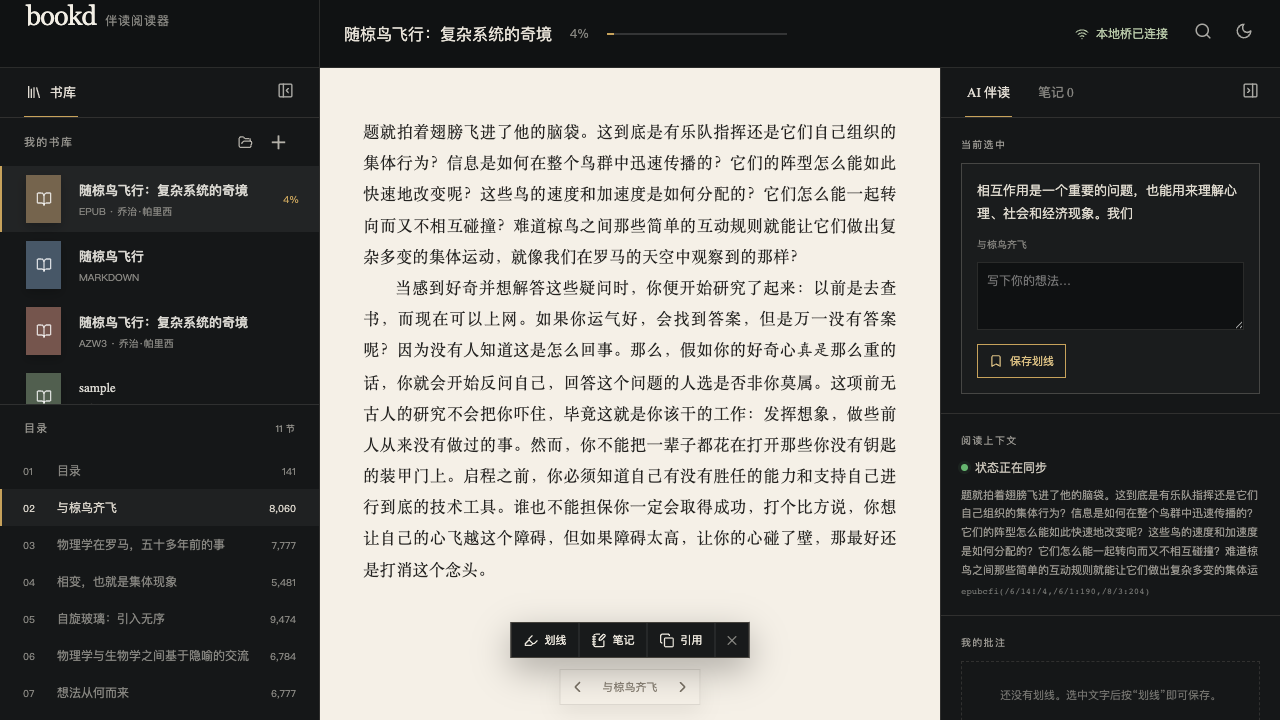
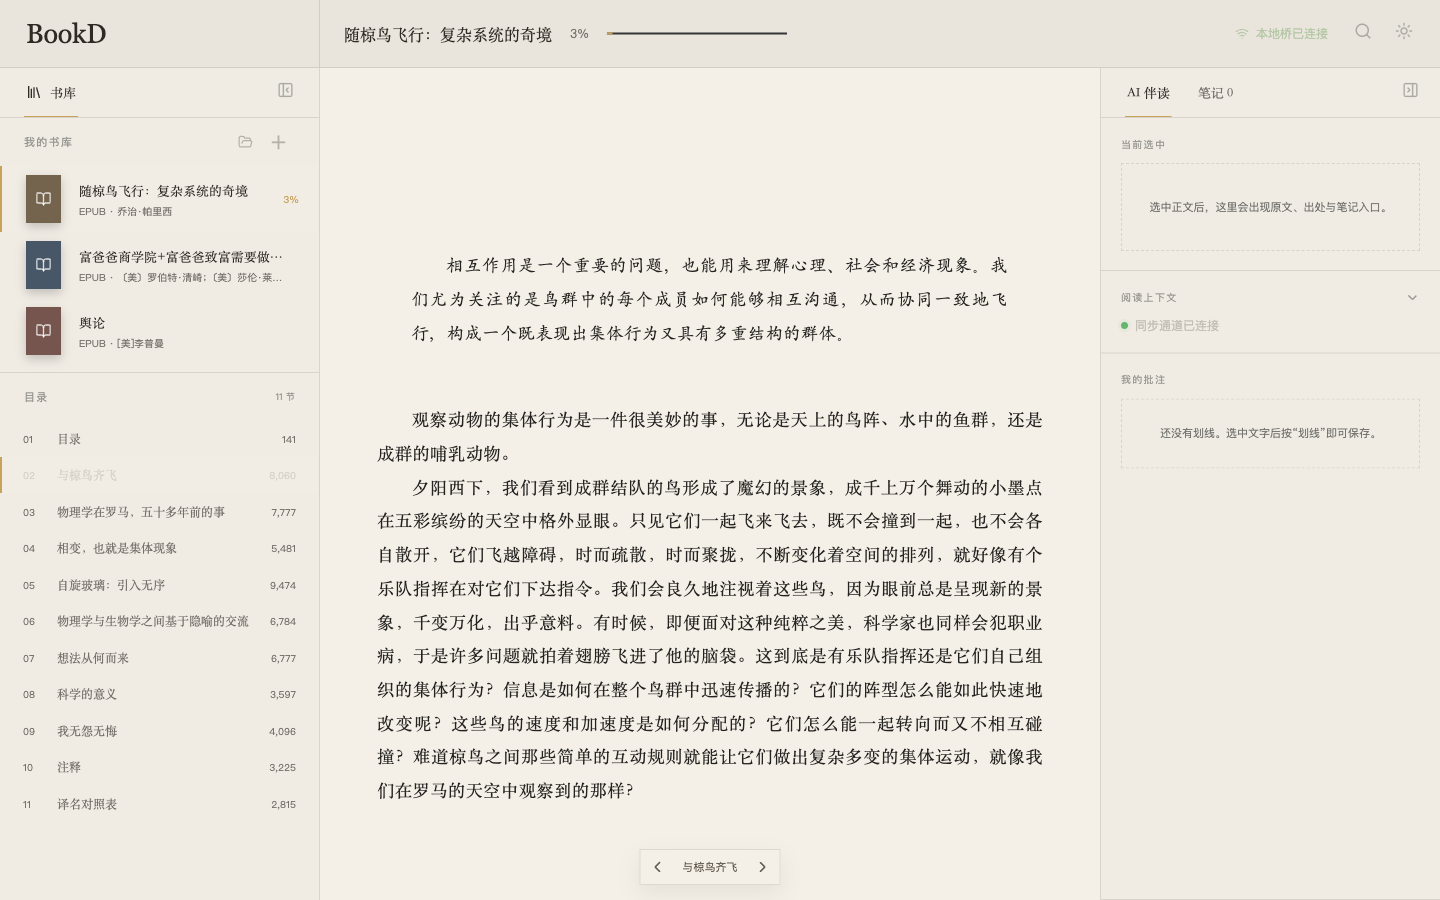
docs: refresh reader snapshot and record ux3

diff --git a/PROGRESS.md b/PROGRESS.md
@@ -107,3 +107,13 @@
 - MCP 回归使用新起的 `dist/mcp.js` stdio 子进程连接 4123：8 个工具可列出，`get_reading_state` 返回当前书、章节、CFI 与非空 `visibleTextHead`。
 - 已知既有风险：从另一本书切回《随椋鸟飞行》且没有该书可恢复位置时，foliate-js 1.0.1 的 text-start 初始化可能在 `Range.setEnd` 抛错并显示提示，但 renderer、字号和滚轮仍可用；本轮未扩大范围修改上游初始化路径。
 - 自动化：`npm run typecheck`、`npm test`（32 项）与 `npm run build` 全部通过；4123 已重启为本轮构建产物。
+
+## 阅读器 UX 第三轮与 MCP 按需启动（2026-08-18）
+
+- 左右边缘信号统一提升到 `app-shell`：侧栏收起后把手默认完全透明，留白探测区与 foliate iframe 正文转发都能同时点亮该侧把手和翻页钮；把手自身 hover 与 `focus-visible` 继续兜底，移入时不闪烁。
+- 把手固定到顶栏下方 `top: 120px`，并用 12px 伪元素扩展热区；翻页钮继续垂直居中且保留 72px 热区。无书时把手常驻可见，`hover: none` 设备上把手与可用翻页钮均以 0.5 透明度常显，≤820px 移动抽屉逻辑不变。
+- MCP 薄客户端只在回环地址发生网络层连接失败时，等待一次 `cli.js start --port …` 后重放请求；HTTP 错误与远程地址不会触发。并发失败共享模块级启动 Promise，MCP 仍不直接拉起 `serve`，失败信息保留底层错误并给出前台手动命令。
+- 单测新增远程回环门槛、HTTP 400/503 与 6 路并发防抖覆盖；随机隔离端口真实验收首次 `list_books` 632ms 返回，MCP 退出后服务继续存活，第二次会话复用同一 PID。生产 `dist/mcp.js` 的 8 个工具也已逐一调用通过，临时批注按返回 ID 清理。
+- 真实 Playwright Chromium 覆盖 1440×900、1000×720、580×720、触摸媒体、无书、Markdown 首末章、留白与 iframe 两条边缘路径、滚轮/方向键/扩展热区，以及明暗主题 × 四色纸面；`visibleTextHead` 在翻页回归中保持非空，控制台没有应用错误。
+- `docs/design/bookd-reader-implementation.png` 已更新为亮色米白纸面、打开《随椋鸟飞行》正文且双侧栏展开的 1440×900 实况，README 顶图同步指向该资产；历史概念图保留。
+- 自动化：`npm run typecheck`、`npm test`（36 项）与 `npm run build` 全部通过。

diff --git a/README.md b/README.md
@@ -2,9 +2,7 @@
 
 本地优先的 AI 伴读阅读器：人类在浏览器里读 EPUB、MOBI、AZW3 与 Markdown，AI 通过 MCP 精确获取当前书、章节、CFI、可见文字和选区，也能反向跳转与高亮。
 
-![bookd 阅读器概念图](docs/design/bookd-reader-concept.png)
-
-![bookd 阅读器实现](docs/design/bookd-reader-implementation.png)
+![bookd 阅读器实况](docs/design/bookd-reader-implementation.png)
 
 ## 核心边界
 
